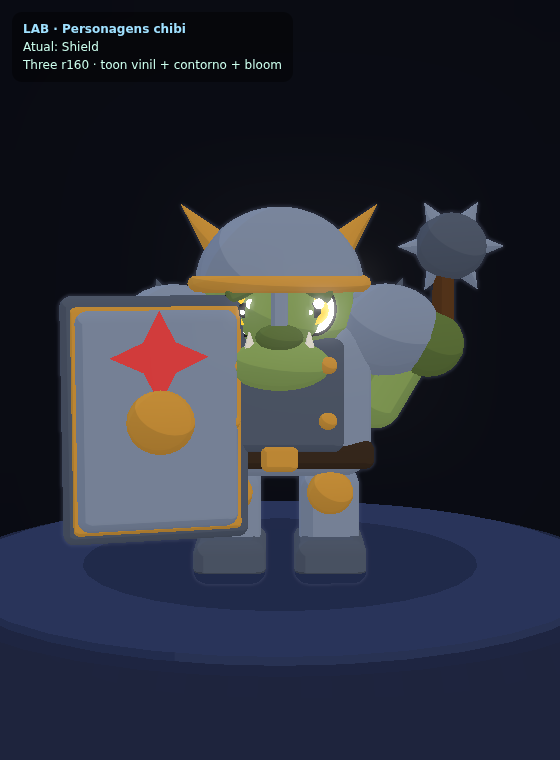
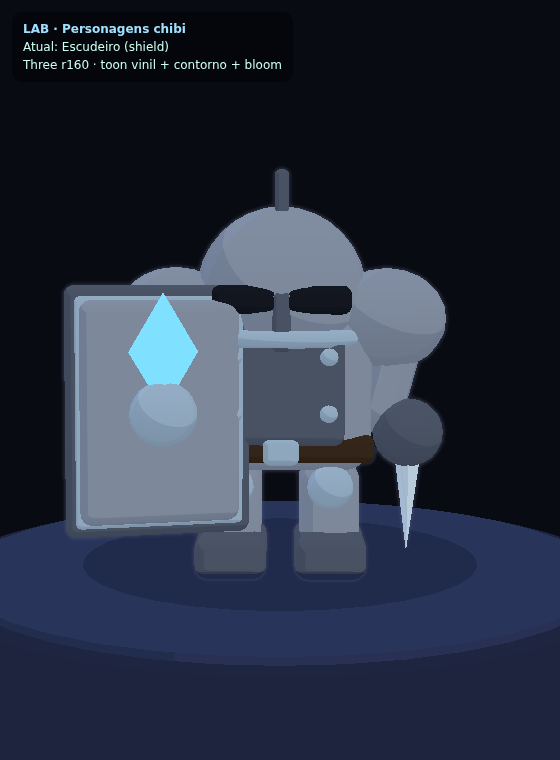
feat(lab): refaz shield como "Escudeiro" (A Maré, Aço) — muralha que anda
Segue lab/concept/escudeiro.png: cavaleiro gelo-morto de aço-geada, elmo FECHADO
com visor de brilho gelado, pauldrons limpos, escudo-torre com emblema de cristal
de gelo, espada-curta de gelo. Remove maça/chifres/rosto orc (resolve o
"atravancado" apontado antes). Silhueta limpa. ERROS=[].

https://claude.ai/code/session_01FsKks2LfpRXbTiAL1QZHxj

diff --git a/lab/monsters.js b/lab/monsters.js
@@ -141,12 +141,13 @@ export function buildGrunt(opts = {}) {
 
 // ════════════════════════════ SHIELD (orc blindado, tanque) ════════════════════════════
 export function buildShield(opts = {}) {
-  const SKIN = opts.skin ?? 0x88a256;   // pele orc verde-acinzentada
-  const SKIN2 = opts.skin2 ?? 0x5f7438;
-  const IRON = opts.iron ?? 0x828ea1;   // ferro
-  const IRON2 = opts.iron2 ?? 0x515a69;  // ferro escuro
-  const BRONZE = 0xcf9438;
-  const EMBLEM = opts.emblem ?? 0xd13b3b;
+  const SKIN = opts.skin ?? 0x9fb1c2;   // carne enregelada (quase coberta)
+  const SKIN2 = opts.skin2 ?? 0x6d8194;
+  const IRON = opts.iron ?? 0x8b97a8;   // aço-geada
+  const IRON2 = opts.iron2 ?? 0x515b6b;  // aço escuro
+  const BRONZE = 0x9fb9cc;               // trim gelo-prata
+  const EMBLEM = opts.emblem ?? 0x7fe0ff; // cristal de gelo
+  const ICE = 0xaee6f2;                  // brilho gelado (visor/lâmina/cristais)
 
   const model = new THREE.Group();
   const HEADR = 0.42;
@@ -170,51 +171,31 @@ export function buildShield(opts = {}) {
   const belt = rbox(1.04, 0.16, 0.64, 0x3a2a1c, 0.05); belt.position.y = 0.78; model.add(belt);
   const buckle = rbox(0.2, 0.16, 0.1, BRONZE, 0.04); buckle.position.set(0, 0.78, 0.36); model.add(buckle);
 
-  // ── pauldrons (ombreiras grandes) ──
+  // ── pauldrons arredondados (sem espinhos — silhueta limpa) ──
   for (const sx of [-1, 1]) {
-    const pad = blob(0.32, 0.28, 0.34, IRON); pad.position.set(sx * 0.6, 1.5, 0.02); model.add(pad);
-    const spike = cone(0.1, 0.24, IRON2, 10); spike.position.set(sx * 0.66, 1.7, 0.02); spike.rotation.z = sx * -0.3; model.add(spike);
+    const pad = blob(0.34, 0.3, 0.36, IRON); pad.position.set(sx * 0.6, 1.52, 0.02); model.add(pad);
+    const trim2 = new THREE.Mesh(new THREE.TorusGeometry(0.2, 0.04, 8, 18), vinyl(BRONZE));
+    trim2.rotation.x = Math.PI / 2; trim2.position.set(sx * 0.6, 1.62, 0.04); model.add(trim2);
   }
 
-  // ── CABEÇA: rosto orc bravo sob elmo aberto ──
-  const head = ball(HEADR, SKIN); head.position.set(0, HEADY, 0.04); head.scale.set(1.05, 0.95, 1); model.add(head);
-  // elmo (skullcap ACIMA dos olhos + protetor de nariz + laterais)
-  const helm = new THREE.Mesh(new THREE.SphereGeometry(HEADR * 1.14, 20, 16, 0, Math.PI * 2, 0, Math.PI * 0.5), vinyl(IRON));
-  helm.position.set(0, HEADY + 0.14, 0.0); model.add(helm);
+  // ── CABEÇA: ELMO FECHADO de gelo-aço (sem rosto orc; visor com brilho gelado) ──
+  const helm = new THREE.Mesh(new THREE.SphereGeometry(HEADR * 1.16, 20, 16), vinyl(IRON));
+  helm.position.set(0, HEADY + 0.04, 0.0); helm.scale.set(1, 1.06, 1); model.add(helm);
+  const visor = rbox(HEADR * 1.8, 0.16, 0.12, 0x161a22, 0.05); visor.position.set(0, HEADY + 0.02, HEADR * 1.0); model.add(visor);
+  for (const sx of [-1, 1]) {
+    const slit = new THREE.Mesh(new THREE.CircleGeometry(0.07, 12), glow(ICE));
+    slit.position.set(sx * 0.16, HEADY + 0.02, HEADR * 1.08); slit.userData.noOutline = true; model.add(slit);
+  }
+  const nasal = rbox(0.1, 0.34, 0.12, IRON2, 0.03); nasal.position.set(0, HEADY - 0.1, HEADR * 1.02); model.add(nasal);
+  const crest = rbox(0.08, 0.52, 0.34, IRON2, 0.03); crest.position.set(0, HEADY + 0.5, 0.0); model.add(crest);
   const helmRim = new THREE.Mesh(new THREE.TorusGeometry(HEADR * 1.12, 0.05, 10, 24), vinyl(BRONZE));
-  helmRim.rotation.x = Math.PI / 2; helmRim.position.set(0, HEADY + 0.16, 0.0); model.add(helmRim);
-  const nasal = rbox(0.09, 0.3, 0.1, IRON, 0.03); nasal.position.set(0, HEADY + 0.04, HEADR * 1.02); model.add(nasal);
-  for (const sx of [-1, 1]) {
-    const cheek = rbox(0.09, 0.26, 0.34, IRON, 0.04); cheek.position.set(sx * HEADR * 1.04, HEADY - 0.02, 0.0); model.add(cheek);
-    const horn = cone(0.1, 0.36, BRONZE, 10); horn.position.set(sx * 0.44, HEADY + 0.5, -0.02); horn.rotation.z = sx * -0.7; model.add(horn);
-  }
+  helmRim.rotation.x = Math.PI / 2; helmRim.position.set(0, HEADY - 0.2, 0.0); model.add(helmRim);
 
-  // sobrancelha pesada + olhos raivosos brilhando
-  for (const sx of [-1, 1]) {
-    const brow = rbox(0.22, 0.09, 0.07, SKIN2, 0.03); brow.position.set(sx * 0.18, HEADY + 0.13, HEADR * 0.92); brow.rotation.z = sx * -0.4; model.add(brow);
-    const e = eye(0.14, 0xffcf2a, 'normal'); e.position.set(sx * 0.18, HEADY + 0.02, HEADR * 0.94); e.userData.noOutline = true; model.add(e);
-  }
-  // nariz achatado + rosnado entre presas (underbite)
-  const nose = blob(0.13, 0.08, 0.13, SKIN2); nose.position.set(0, HEADY - 0.14, HEADR * 1.0); model.add(nose);
-  const jaw = blob(0.3, 0.16, 0.2, SKIN); jaw.position.set(0, HEADY - 0.3, HEADR * 0.78); model.add(jaw);
-  const snarl = new THREE.Mesh(new THREE.CircleGeometry(0.16, 16),
-    new THREE.MeshBasicMaterial({ color: 0x2a0d10, toneMapped: false }));
-  snarl.scale.set(1.2, 0.55, 1); snarl.position.set(0, HEADY - 0.28, HEADR * 0.95); snarl.userData.noOutline = true; model.add(snarl);
-  for (const sx of [-1, 1]) {
-    const tusk = cone(0.07, 0.26, 0xeae3cf, 8); tusk.position.set(sx * 0.16, HEADY - 0.22, HEADR * 0.96);
-    tusk.userData.noOutline = true; model.add(tusk);
-  }
-
-  // ── braço direito com maça ──
-  const armR = capsule(0.15, 0.3, SKIN); armR.position.set(0.62, 1.18, -0.02); armR.rotation.z = -0.5; model.add(armR);
-  const fistR = glove(0.2, SKIN2); fistR.position.set(0.84, 1.42, 0.06); model.add(fistR);
-  const haft = capsule(0.06, 0.5, 0x5a3719); haft.position.set(0.92, 1.7, 0.06); model.add(haft);
-  const maceHead = ball(0.2, IRON2); maceHead.position.set(0.96, 2.0, 0.06); model.add(maceHead);
-  for (const a of [0, 1.05, 2.1, 3.15, 4.2, 5.25]) {
-    const spk = cone(0.07, 0.16, IRON, 8);
-    spk.position.set(0.96 + Math.cos(a) * 0.22, 2.0 + Math.sin(a) * 0.22, 0.06);
-    spk.rotation.z = a - Math.PI / 2; model.add(spk);
-  }
+  // ── braço direito: punho com espada-curta de gelo apontada p/ baixo (limpo) ──
+  const armR = capsule(0.15, 0.34, IRON); armR.position.set(0.6, 1.16, 0.04); armR.rotation.z = -0.25; model.add(armR);
+  const fistR = glove(0.2, IRON2); fistR.position.set(0.72, 0.86, 0.12); model.add(fistR);
+  const guardR = rbox(0.3, 0.06, 0.1, BRONZE, 0.02); guardR.position.set(0.72, 0.96, 0.12); model.add(guardR);
+  const blade = cone(0.09, 0.7, 0xcde2ee, 4); blade.position.set(0.72, 0.5, 0.12); blade.rotation.z = Math.PI; model.add(blade);
 
   // ── ESCUDÃO no braço esquerdo (domina a silhueta) ──
   const shieldGrp = new THREE.Group(); shieldGrp.position.set(-0.66, 1.02, 0.46); shieldGrp.rotation.y = 0.25;
@@ -222,9 +203,9 @@ export function buildShield(opts = {}) {
   const sFace = rbox(0.86, 1.24, 0.14, IRON, 0.24); sFace.position.z = 0.06; shieldGrp.add(sFace);
   const rim = rbox(0.94, 1.32, 0.1, BRONZE, 0.26); rim.position.z = 0.02; shieldGrp.add(rim);
   const boss = ball(0.18, BRONZE); boss.position.z = 0.16; shieldGrp.add(boss);
-  // emblema (estrela) no escudo
-  const emblem = new THREE.Mesh(starGeoM(0.26, 0.12, 4), glow(EMBLEM));
-  emblem.position.set(0, 0.36, 0.15); emblem.userData.noOutline = true; shieldGrp.add(emblem);
+  // emblema: cristal de gelo (losango) no escudo
+  const emblem = new THREE.Mesh(new THREE.OctahedronGeometry(0.28, 0), glow(EMBLEM));
+  emblem.scale.set(0.66, 1.15, 0.4); emblem.position.set(0, 0.34, 0.17); emblem.userData.noOutline = true; shieldGrp.add(emblem);
   const armL = capsule(0.14, 0.26, SKIN); armL.position.set(-0.5, 1.16, 0.18); armL.rotation.z = 0.4; model.add(armL);
   model.add(shieldGrp);
 

diff --git a/lab/characters.html b/lab/characters.html
@@ -45,7 +45,7 @@ const CHARS = {
   hero:   { build: buildHeroMage, label: 'Pyr (bruxa de fogo)', look: 1.35, dist: 7.4 },
   grunt:  { build: buildGrunt,    label: 'Saqueador (grunt)', look: 1.1, dist: 6.8 },
   runner: { build: buildRunner,   label: 'Batedor (runner)', look: 1.0, dist: 6.6 },
-  shield: { build: buildShield,   label: 'Shield',     look: 1.1,  dist: 7.2 },
+  shield: { build: buildShield,   label: 'Escudeiro (shield)', look: 1.1, dist: 7.2 },
 };
 
 const LAB = window.LAB = { ready:false, error:null, frames:0, rev:THREE.REVISION, webgl:null, who:'hero' };
